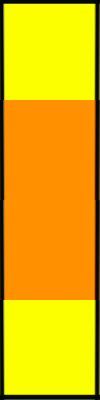
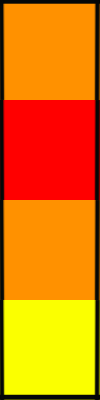
Flip et Rotation

diff --git a/src/Piece.java b/src/Piece.java
@@ -120,8 +120,17 @@ public class Piece {
         tuileListS0t.add(new Tuile(2,new Coordonnee(1,1)));
         tuileListS0t.add(new Tuile(1,new Coordonnee(2,1)));
         polyminoList.add(new Polymino(tuileListS0t,TypePolymino.S,0,true));
+        
+        polyminoList.add(getRotation(polyminoList.get(0), 1, false));
+        polyminoList.add(getRotation(polyminoList.get(0), 2, false));
+        polyminoList.add(getRotation(polyminoList.get(0), 3, false));
 
-        List<Tuile> tuileListS1t=new ArrayList<>();
+        polyminoList.add(getRotation(polyminoList.get(0), 0, true));
+        polyminoList.add(getRotation(polyminoList.get(0), 1, true));
+        polyminoList.add(getRotation(polyminoList.get(0), 2, true));
+        polyminoList.add(getRotation(polyminoList.get(0), 3, true));
+
+/*        List<Tuile> tuileListS1t=new ArrayList<>();
         tuileListS1t.add(new Tuile(2,new Coordonnee(1,0)));
         tuileListS1t.add(new Tuile(3,new Coordonnee(1,1)));
         tuileListS1t.add(new Tuile(2,new Coordonnee(0,1)));
@@ -154,7 +163,7 @@ public class Piece {
         tuileListS1f.add(new Tuile(2,new Coordonnee(1,1)));
         tuileListS1f.add(new Tuile(2,new Coordonnee(0,1)));
         tuileListS1f.add(new Tuile(1,new Coordonnee(1,2)));
-        polyminoList.add(new Polymino(tuileListS1f,TypePolymino.S,1,false));
+        polyminoList.add(new Polymino(tuileListS1f,TypePolymino.S,1,false));*/
 
 
         return new Piece(polyminoList);
@@ -169,8 +178,17 @@ public class Piece {
         tuileListI0t.add(new Tuile(2,new Coordonnee(0,2)));
         tuileListI0t.add(new Tuile(1,new Coordonnee(0,3)));
         polyminoList.add(new Polymino(tuileListI0t,TypePolymino.I,0,true));
+        
+        polyminoList.add(getRotation(polyminoList.get(0), 1, false));
+        polyminoList.add(getRotation(polyminoList.get(0), 2, false));
+        polyminoList.add(getRotation(polyminoList.get(0), 3, false));
 
-        List<Tuile> tuileListI1t=new ArrayList<>();
+        polyminoList.add(getRotation(polyminoList.get(0), 0, true));
+        polyminoList.add(getRotation(polyminoList.get(0), 1, true));
+        polyminoList.add(getRotation(polyminoList.get(0), 2, true));
+        polyminoList.add(getRotation(polyminoList.get(0), 3, true));
+
+/*        List<Tuile> tuileListI1t=new ArrayList<>();
         tuileListI1t.add(new Tuile(2,new Coordonnee(0,0)));
         tuileListI1t.add(new Tuile(3,new Coordonnee(1,0)));
         tuileListI1t.add(new Tuile(2,new Coordonnee(2,0)));
@@ -203,7 +221,7 @@ public class Piece {
         tuileListI1f.add(new Tuile(2,new Coordonnee(1,0)));
         tuileListI1f.add(new Tuile(2,new Coordonnee(2,0)));
         tuileListI1f.add(new Tuile(1,new Coordonnee(3,0)));
-        polyminoList.add(new Polymino(tuileListI1f,TypePolymino.I,1,false));
+        polyminoList.add(new Polymino(tuileListI1f,TypePolymino.I,1,false));*/
 
 
 
@@ -219,8 +237,17 @@ public class Piece {
         tuileListl0t.add(new Tuile(2,new Coordonnee(0,1)));
         tuileListl0t.add(new Tuile(1,new Coordonnee(0,2)));
         polyminoList.add(new Polymino(tuileListl0t,TypePolymino.L,0,true));
+        
+        polyminoList.add(getRotation(polyminoList.get(0), 1, false));
+        polyminoList.add(getRotation(polyminoList.get(0), 2, false));
+        polyminoList.add(getRotation(polyminoList.get(0), 3, false));
 
-        List<Tuile> tuileListl1t=new ArrayList<>();
+        polyminoList.add(getRotation(polyminoList.get(0), 0, true));
+        polyminoList.add(getRotation(polyminoList.get(0), 1, true));
+        polyminoList.add(getRotation(polyminoList.get(0), 2, true));
+        polyminoList.add(getRotation(polyminoList.get(0), 3, true));
+
+/*        List<Tuile> tuileListl1t=new ArrayList<>();
         tuileListl1t.add(new Tuile(3,new Coordonnee(0,1)));
         tuileListl1t.add(new Tuile(2,new Coordonnee(1,1)));
         tuileListl1t.add(new Tuile(2,new Coordonnee(0,0)));
@@ -267,7 +294,7 @@ public class Piece {
         tuileListl3f.add(new Tuile(1,new Coordonnee(1,1)));
         tuileListl3f.add(new Tuile(1,new Coordonnee(2,1)));
         tuileListl3f.add(new Tuile(2,new Coordonnee(0,1)));
-        polyminoList.add(new Polymino(tuileListl3f,TypePolymino.L,3,false));
+        polyminoList.add(new Polymino(tuileListl3f,TypePolymino.L,3,false));*/
 
         return new Piece(polyminoList);
     }
@@ -280,8 +307,17 @@ public class Piece {
         tuileListO0t.add(new Tuile(2,new Coordonnee(0,1)));
         tuileListO0t.add(new Tuile(1,new Coordonnee(1,1)));
         polyminoList.add(new Polymino(tuileListO0t,TypePolymino.O,0,true));
+        
+        polyminoList.add(getRotation(polyminoList.get(0), 1, false));
+        polyminoList.add(getRotation(polyminoList.get(0), 2, false));
+        polyminoList.add(getRotation(polyminoList.get(0), 3, false));
 
-        List<Tuile> tuileListO1t=new ArrayList<>();
+        polyminoList.add(getRotation(polyminoList.get(0), 0, true));
+        polyminoList.add(getRotation(polyminoList.get(0), 1, true));
+        polyminoList.add(getRotation(polyminoList.get(0), 2, true));
+        polyminoList.add(getRotation(polyminoList.get(0), 3, true));
+
+/*        List<Tuile> tuileListO1t=new ArrayList<>();
         tuileListO1t.add(new Tuile(2,new Coordonnee(0,0)));
         tuileListO1t.add(new Tuile(1,new Coordonnee(1,0)));
         tuileListO1t.add(new Tuile(1,new Coordonnee(0,1)));
@@ -314,7 +350,7 @@ public class Piece {
         tuileListO3f.add(new Tuile(3,new Coordonnee(1,0)));
         tuileListO3f.add(new Tuile(1,new Coordonnee(0,1)));
         tuileListO3f.add(new Tuile(2,new Coordonnee(1,1)));
-        polyminoList.add(new Polymino(tuileListO3f,TypePolymino.O,3,false));
+        polyminoList.add(new Polymino(tuileListO3f,TypePolymino.O,3,false));*/
 
         return new Piece(polyminoList);
 
